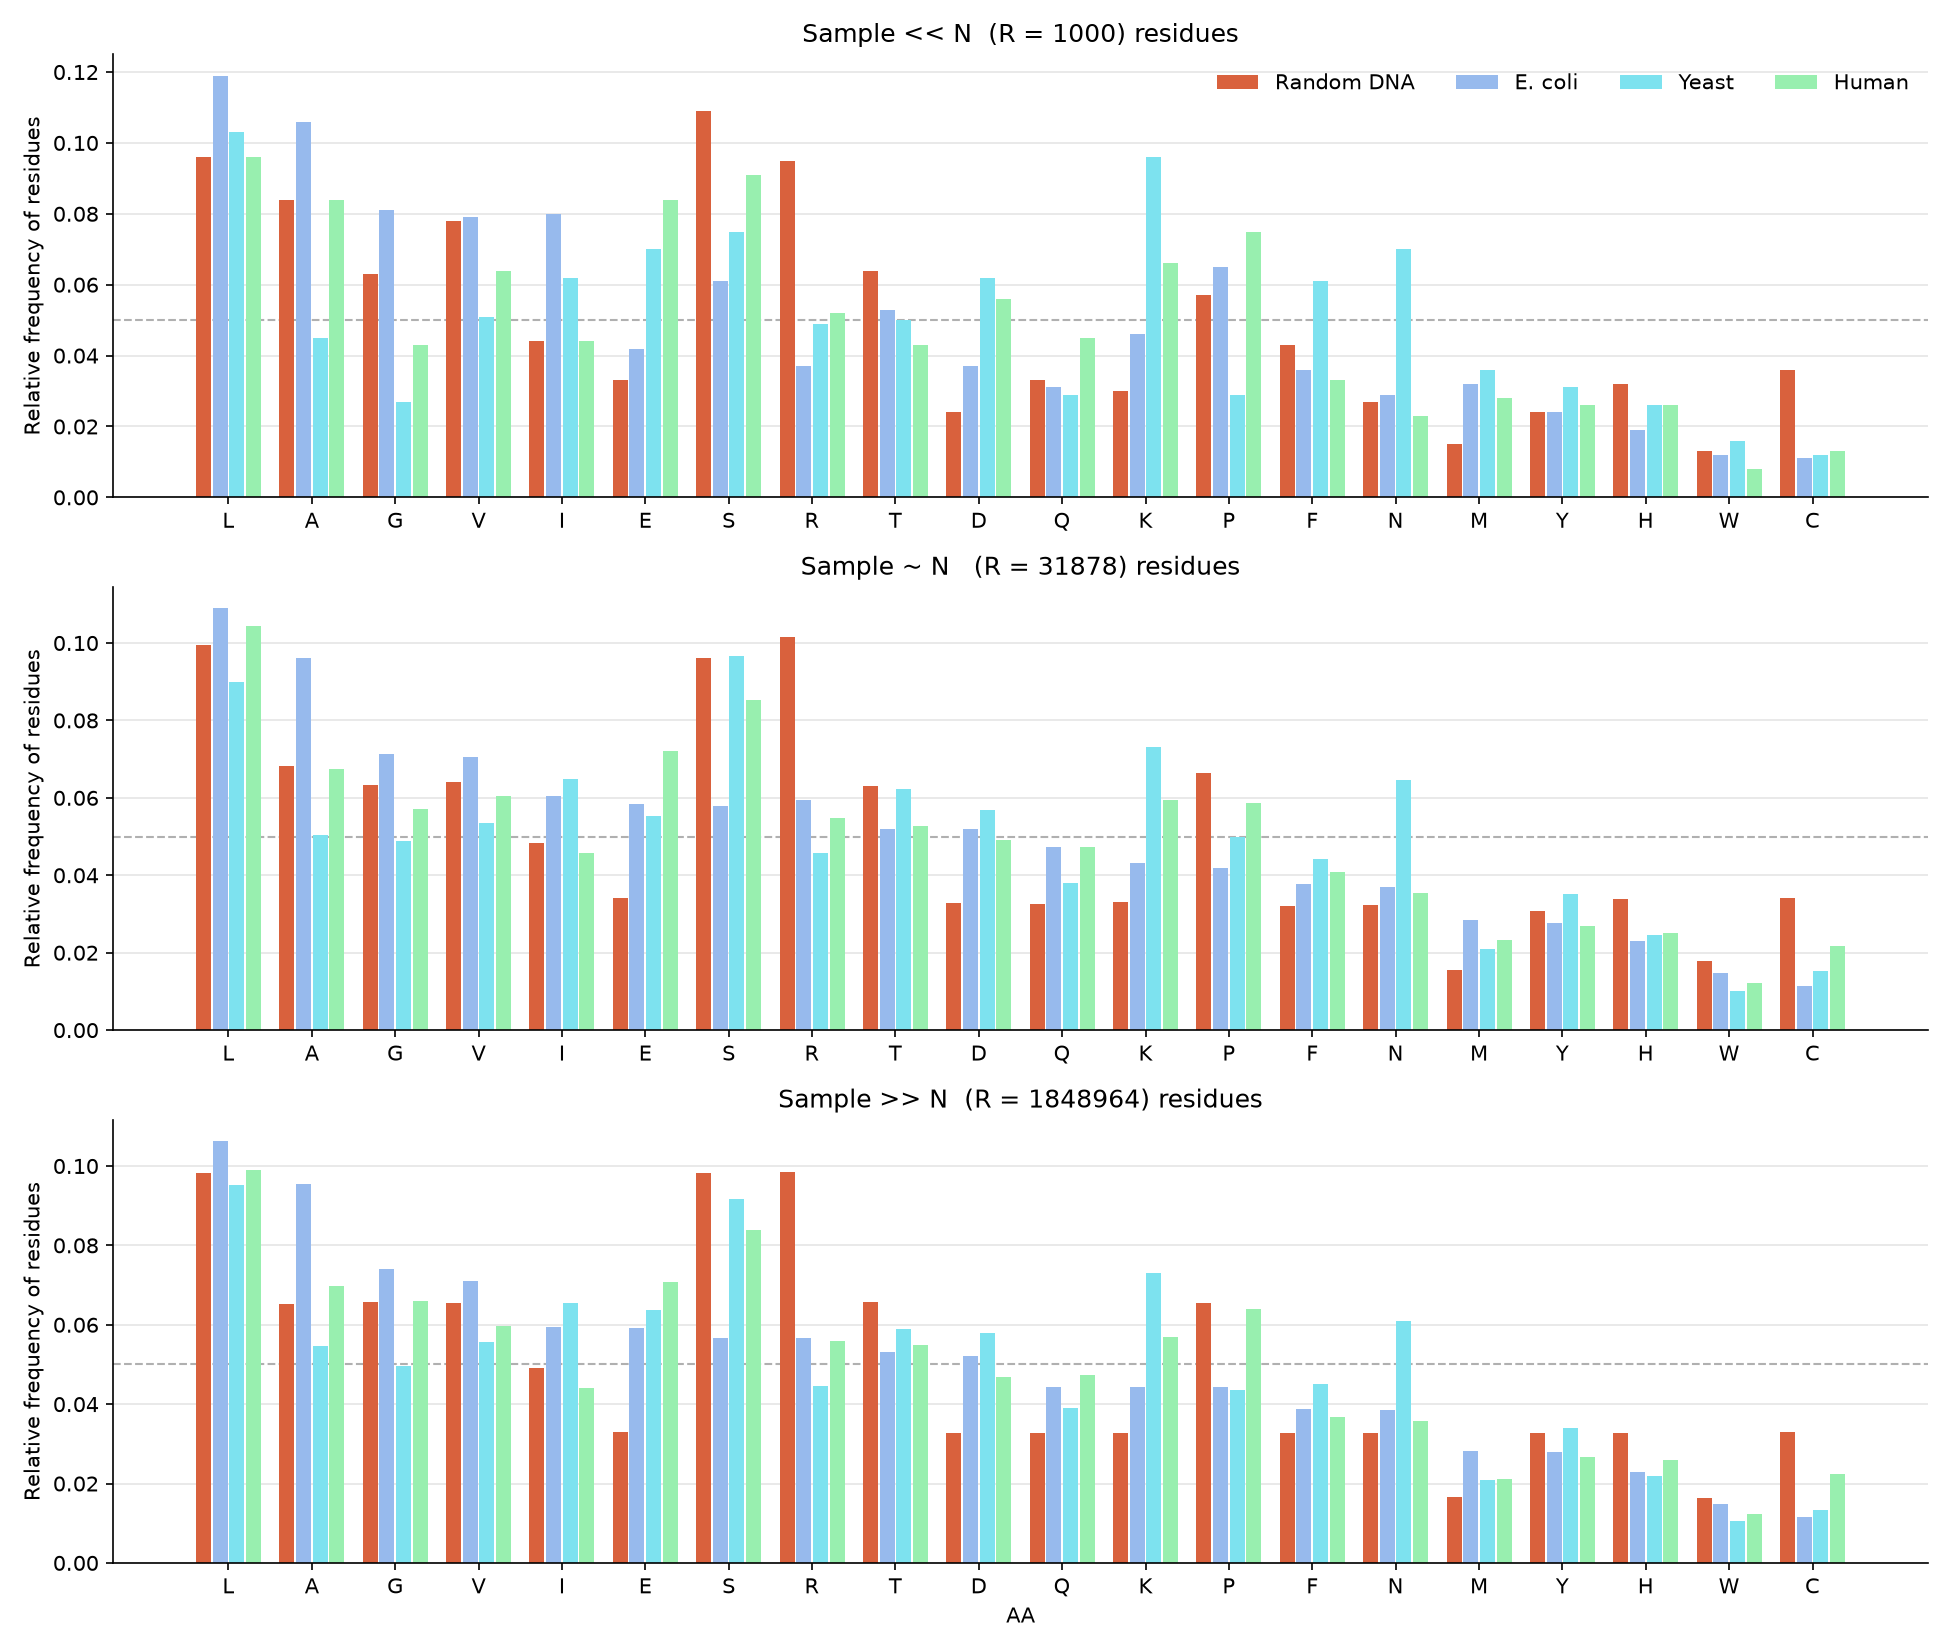
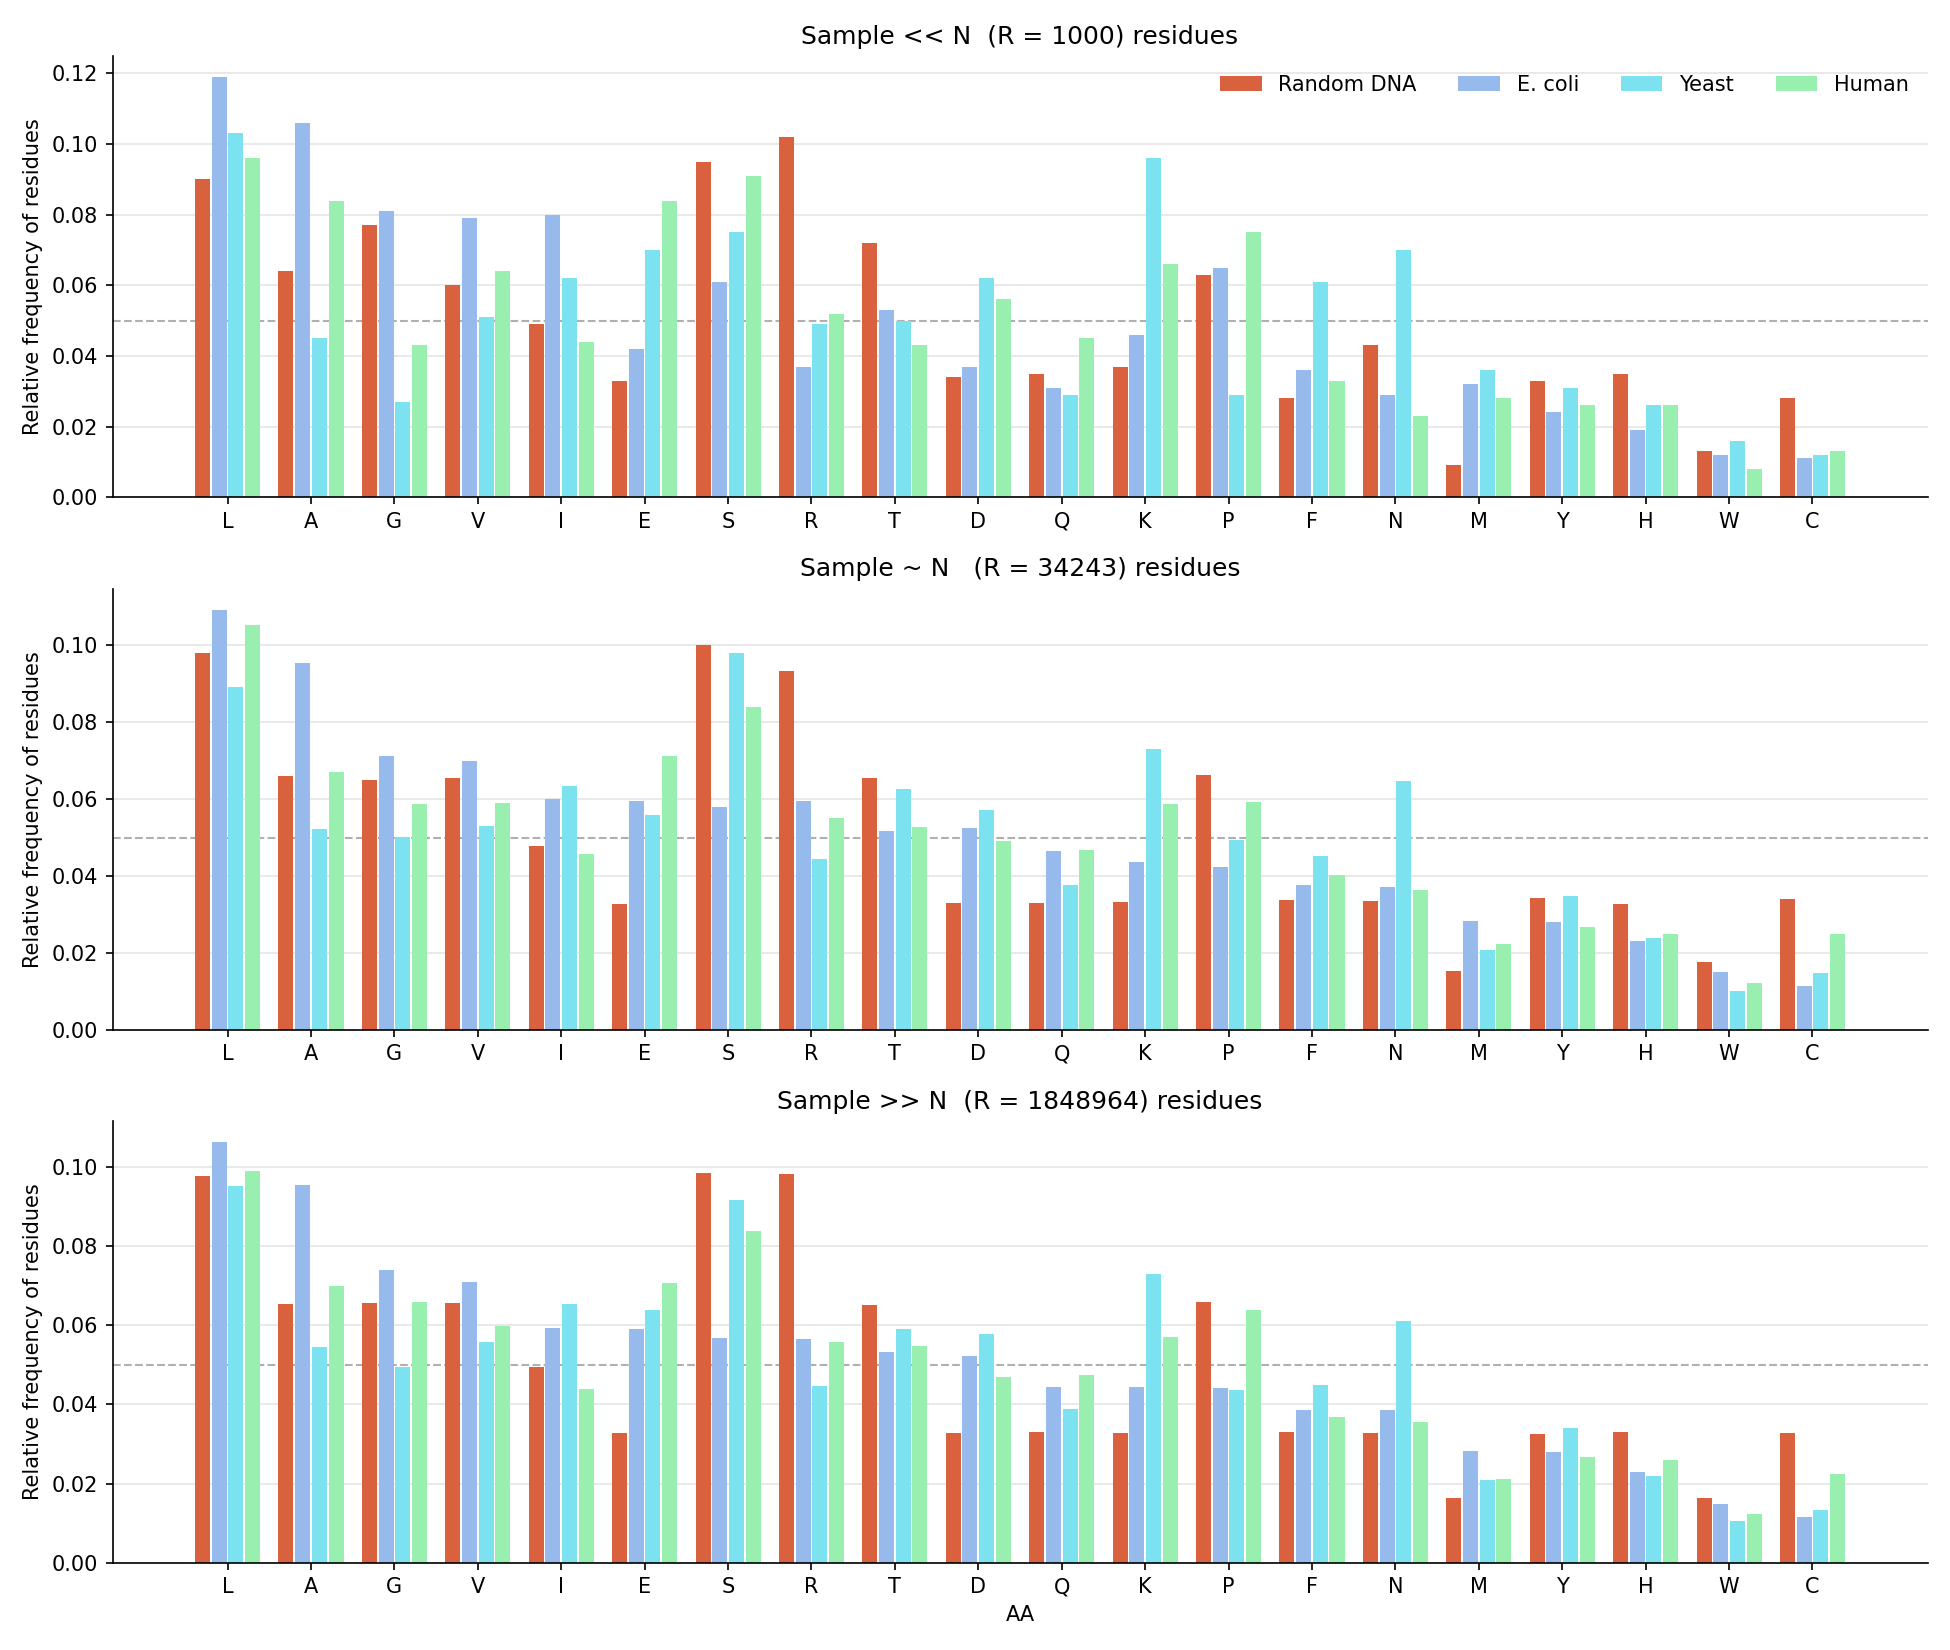
Measure both convergence axes against the same reference
Axis 1 compared each source to its own truncated distribution while axis 2
used the full proteome, so N and K were not comparable. Both now target the
whole proteome, and the random source targets the exact distribution of its
null model instead of itself.

diff --git a/exercises/ex4/b.py b/exercises/ex4/b.py
@@ -31,7 +31,7 @@ import os
 import numpy as np
 import matplotlib.pyplot as plt
 
-from sequences import AA
+from sequences import AA, expected_aa_frequencies, generate_random_aa_sequence_from_dna
 from stats import (
     THRESHOLD,
     convergence_curve,
@@ -54,40 +54,67 @@ def run():
     data_length = calculate_data_length(real_seqs)
     sources = build_sources(real_seqs, data_length)
 
+    # Both axes measure the distance to the same target: the organism's whole
+    # proteome, which is what "the distribution of this organism" means. The
+    # random source is measured against the exact distribution of its own null
+    # model, which is independent of any sample drawn from it.
+    pools, references = build_pools_and_references(real_seqs)
+
     # Step 1, axis 1: how many RESIDUES until the aa distribution stabilises
-    curves, N_by_source, final_distributions = analyze_convergence(sources)
+    curves, N_by_source = analyze_convergence(pools, references)
     print_N_by_source(N_by_source)
     N = representative_N(N_by_source)
     print(f"\nRepresentative N (enough for every source): {N}")
 
     # Step 1, axis 2: how many PROTEINS until an organism's distribution
-    # stabilises. Uses the full protein lists, not the truncated sources.
-    count_curves, K_by_organism = analyze_protein_count(real_seqs)
+    # stabilises. Same target, sample grown by whole proteins.
+    count_curves, K_by_organism = analyze_protein_count(real_seqs, references)
     print_K_by_organism(K_by_organism, real_seqs)
     K = representative_N(K_by_organism)
     print(f"\nRepresentative K (enough for every organism): {K}")
 
     plot_convergence(curves, N, count_curves, K_by_organism, K)
 
-    # Step 2: compare the distributions at << N, ~ N, >> N
+    # Step 2: compare the distributions at << N, ~ N, >> N. This one does use
+    # the equal-sized sources of 4a, because it compares sources against each
+    # other and that needs them to carry the same amount of data.
+    final_distributions = {name: freqs(seq) for name, seq in sources.items()}
     plot_regimes(sources, final_distributions, N, data_length)
 
     plt.show()
     print("\nSaved: aa_stabilized.png and aa_sample_sizes.png")
 
 
-def analyze_convergence(sources):
-    """For each source compute: its convergence curve, its N, and its final
-    distribution (using every residue)."""
+# Length of the random string used on axis 1. It has no natural size, so it
+# is set to the largest proteome, to cover the same range as the organisms.
+RANDOM_POOL_LENGTH = 11_500_000
+
+
+def build_pools_and_references(real_seqs):
+    """The residues each source is sampled from, and the target each one is
+    measured against.
+
+    For an organism both come from its whole proteome: the sample is a small
+    fraction of it at the sizes that matter, so the overlap is negligible.
+    For the random source the target is exact, so there is no overlap at all.
+    """
+    pools = {"Random DNA": generate_random_aa_sequence_from_dna(RANDOM_POOL_LENGTH)}
+    references = {"Random DNA": expected_aa_frequencies()}
+    for name, proteins in real_seqs.items():
+        pools[name] = "".join(proteins)
+        references[name] = freqs(pools[name])
+    return pools, references
+
+
+def analyze_convergence(pools, references):
+    """For each source, its convergence curve against the reference, and its N."""
     curves = {}
     N_by_source = {}
-    final_distributions = {}
-    for name, res in sources.items():
-        grid, ds = convergence_curve(res)
+    for name, res in pools.items():
+        grid, ds = convergence_curve(res, references[name])
         curves[name] = (grid, ds)
         N_by_source[name] = find_N(grid, ds)
-        final_distributions[name] = freqs(res)
-    return curves, N_by_source, final_distributions
+    return curves, N_by_source
 
 
 def print_N_by_source(N_by_source):
@@ -105,7 +132,7 @@ def representative_N(N_by_source):
     return max(N_by_source.values())
 
 
-def analyze_protein_count(real_seqs):
+def analyze_protein_count(real_seqs, references):
     """Second axis: for each organism, its curve against the NUMBER of whole
     proteins analysed, and the K at which it crosses the threshold.
 
@@ -115,7 +142,7 @@ def analyze_protein_count(real_seqs):
     count_curves = {}
     K_by_organism = {}
     for name, proteins in real_seqs.items():
-        counts, curve = count_convergence_curve(proteins)
+        counts, curve = count_convergence_curve(proteins, references[name])
         count_curves[name] = (counts, curve)
         K_by_organism[name] = find_N(counts, curve)
     return count_curves, K_by_organism

diff --git a/stats.py b/stats.py
@@ -120,11 +120,17 @@ def smooth_curve(res_list, grid, final_distribution):
     return average_curve
 
 
-def convergence_curve(res):
-    """Grid of sample sizes and its curve (distance to the final distribution)
-    for one residue source."""
+def convergence_curve(res, reference=None):
+    """Grid of sample sizes and its curve for one residue source.
+
+    `reference` is the distribution the sample is compared against: the target
+    being estimated. Pass the organism's whole proteome, or the exact
+    distribution of the null model, so the sample is measured against
+    something independent of itself. Defaults to the source's own final
+    distribution.
+    """
     res_list = list(res)              # list of residues, so it can be shuffled
-    final_distribution = freqs(res)   # distribution using ALL the residues
+    final_distribution = reference if reference is not None else freqs(res)
     res_length = len(res_list)
     grid = sample_sizes(res_length)   # dynamic sample sizes (up to res_length)
 
@@ -188,9 +194,8 @@ def smooth_count_curve(seqs, grid, final_distribution):
     return list(np.mean(curves_per_rep, axis=0))
 
 
-def count_convergence_curve(seqs):
-    """Grid of sequence counts and its curve (distance to the final
-    distribution) for a list of whole proteins.
+def count_convergence_curve(seqs, reference=None):
+    """Grid of sequence counts and its curve for a list of whole proteins.
 
     The companion of convergence_curve(): that one grows the sample residue by
     residue, this one adds whole proteins. Both axes are named in 4b, and they
@@ -199,7 +204,7 @@ def count_convergence_curve(seqs):
     number of residues drawn at random.
     """
     seqs = list(seqs)
-    final_distribution = freqs(seqs)   # distribution using ALL the proteins
+    final_distribution = reference if reference is not None else freqs(seqs)
     grid = sequence_counts(len(seqs))
     curve = smooth_count_curve(seqs, grid, final_distribution)
     return grid, curve

diff --git a/informe.md b/informe.md
@@ -49,23 +49,19 @@ El resultado que más condiciona lo que sigue es que los organismos se diferenci
 
 > **4b)** Analice cómo cambian las distribuciones al aumentar el tamaño de la secuencia "al azar" analizada, y al incrementar el número de secuencias reales analizadas. ¿Cuándo es suficiente?
 
-La consigna nombra dos ejes que no son el mismo: se puede crecer en cantidad de residuos o en cantidad de proteínas enteras. Los medimos por separado. En los dos casos la pregunta se responde igual, comparando la distribución de una muestra parcial contra la distribución final de esa misma fuente con la métrica de 4c, y buscando dónde la distancia cae por debajo de 0,01. Llamamos **N** al número de residuos donde se cruza el umbral y **K** al número de proteínas enteras. El eje de proteínas aplica sólo a los organismos, porque la fuente al azar se genera como una única cadena y no tiene "secuencias". Cada curva se promedia sobre 5 barajadas del orden, para que no dependa de qué proteínas vinieron primero.
+La consigna nombra dos ejes que no son el mismo: se puede crecer en cantidad de residuos o en cantidad de proteínas enteras. Los medimos por separado, pero contra el mismo blanco, que es lo que hace comparables los dos resultados. Ese blanco es el proteoma completo del organismo, que es lo que significa "la distribución de este organismo"; para la fuente al azar es la distribución exacta de su modelo nulo, calculada a partir de la tabla de codones. En ambos casos se toma una muestra parcial, se mide su distancia al blanco con la métrica de 4c, y se busca dónde cae por debajo de 0,01. Llamamos **N** al número de residuos donde se cruza el umbral y **K** al número de proteínas enteras. El eje de proteínas aplica sólo a los organismos, porque la fuente al azar se genera como una única cadena y no tiene "secuencias". Cada curva se promedia sobre 5 barajadas del orden, para que no dependa de qué proteínas vinieron primero.
 
 ![Estabilización de la distribución](exercises/ex4/aa_stabilized.png)
 
-Las cuatro fuentes se estabilizan en el mismo orden de magnitud, alrededor de 3·10⁴ residuos: 31.400 la fuente al azar, 33.500 *E. coli*, 31.600 levadura y 31.300 humano. En proteínas enteras alcanza con unas 240 para *E. coli*, 252 para levadura y 425 para humano.
+Las cuatro fuentes se estabilizan en el mismo orden de magnitud, alrededor de 3·10⁴ residuos: 34.200 la fuente al azar, 34.000 *E. coli*, 28.400 levadura y 32.400 humano. En proteínas enteras alcanza con unas 252 para *E. coli*, 220 para levadura y 406 para humano.
 
-Los dos ejes no dan el mismo número. Las 425 proteínas humanas suman unos 236.000 residuos, más de siete veces el N del eje 1; en levadura la relación es 3,6 y en *E. coli* 2,2. La lectura directa es que hacen falta más residuos para estabilizar la distribución cuando llegan agrupados en proteínas enteras que cuando se cuentan sueltos.
-
-La comparación, eso sí, no es del todo limpia. El eje 1 mide cada fuente contra su propia distribución final recortada a 1.848.964 residuos, mientras que el eje 2 mide cada organismo contra su proteoma completo, que en humano es seis veces más grande. Las referencias no son las mismas, y la diferencia entre ellas es mayor justamente en el organismo donde la brecha entre ejes es mayor, así que parte del factor 7,5 puede venir de ahí y no del agrupamiento en proteínas. Para separar las dos causas habría que repetir el eje 2 contra la misma referencia recortada que usa el eje 1.
+Los dos ejes no dan el mismo número. Las 406 proteínas humanas suman unos 226.000 residuos, siete veces el N del eje 1, así que hacen falta más residuos para estabilizar la distribución cuando llegan agrupados en proteínas enteras que cuando se cuentan sueltos. La brecha además es mayor cuanto más largas son las proteínas del organismo: 2,3 en *E. coli*, que promedia 305 residuos por proteína, 3,5 en levadura con 449 y 7,0 en humano con 556.
 
 ![Distribuciones a distintos tamaños de muestra](exercises/ex4/aa_sample_sizes.png)
 
-La figura de regímenes muestra lo mismo de otra forma. Con R = 1000, muy por debajo de N, las barras son ruido: levadura da K en 0,096 cuando su valor real es 0,073, *E. coli* da L en 0,119 contra 0,106. Con R ≈ N y con R >> N los dos paneles son casi idénticos y las diferencias quedan en el tercer decimal. El panel del medio ya contiene toda la información que aporta el de abajo usando el 1,7% de los datos.
+Los tres gráficos de la figura de arriba muestran lo mismo de otra forma, con la distribución completa a tres tamaños de muestra. Con R = 1000, muy por debajo de N, las barras son ruido: levadura da K en 0,096 cuando su valor real es 0,073, y *E. coli* da L en 0,119 contra 0,106. Con R ≈ N y con R >> N los dos gráficos de abajo son casi idénticos, con diferencias en el tercer decimal: el del medio ya contiene toda la información que aporta el último, usando el 1,7% de los datos.
 
-Hay dos salvedades. La primera es que N y K son ruidosos: como el orden se baraja sin semilla fija, sobre 6 corridas N va de 17.800 a 35.400 y K de 206 a 666, así que lo que se sostiene es el orden de magnitud y no la cifra exacta. La curva es casi plana donde se la corta, y un desvío vertical de 0,002 corre el cruce a lo largo de casi una celda entera de la grilla.
-
-La segunda es que cada curva se compara contra la distribución final de su propia fuente, así que la muestra está contenida en la referencia. Con el proteoma completo eso es despreciable (K = 425 sobre 20.591 es el 2%), pero conviene comprobarlo: si K midiera una propiedad del organismo y no del corpus, no debería moverse al variar cuántas proteínas hay disponibles. Variando el corpus humano, K da 130 con 200 proteínas, 203 con 400, 304 con 1.000, 462 con 2.500, 592 con 6.000 y 481 con las 20.591. A partir de unas 2.500 deja de seguir al corpus y se estanca entre 460 y 590, que es el rango que significa algo. Como control externo, para una fuente uniforme la distancia esperada por error de muestreo es 1,74/√R, que cruza 0,01 en R ≈ 30.300, muy cerca de los 31.400 medidos.
+Conviene aclarar que N y K son ruidosos. Cada corrida mezcla los datos en un orden distinto y da un resultado un poco diferente, y como la curva llega al umbral casi horizontal, una variación mínima en su altura mueve bastante el punto donde lo cruza: sobre 6 corridas de la fuente al azar, N va de 21.900 a 34.400. Lo que se sostiene es el orden de magnitud y la relación entre los dos ejes, no la cifra exacta de una corrida.
 
 ---
 
